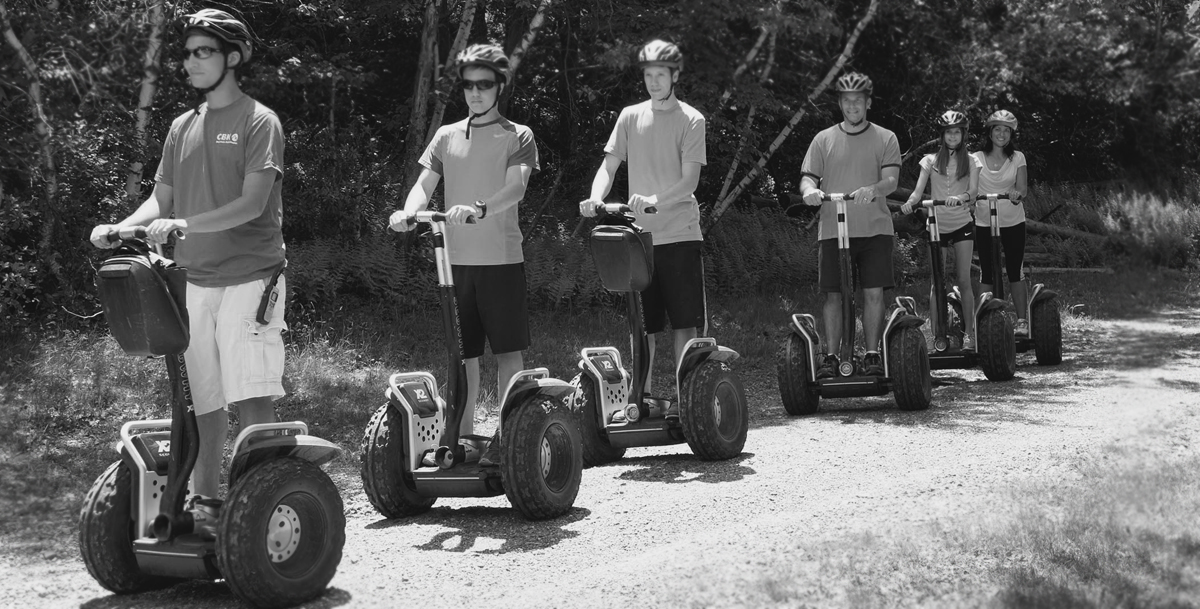
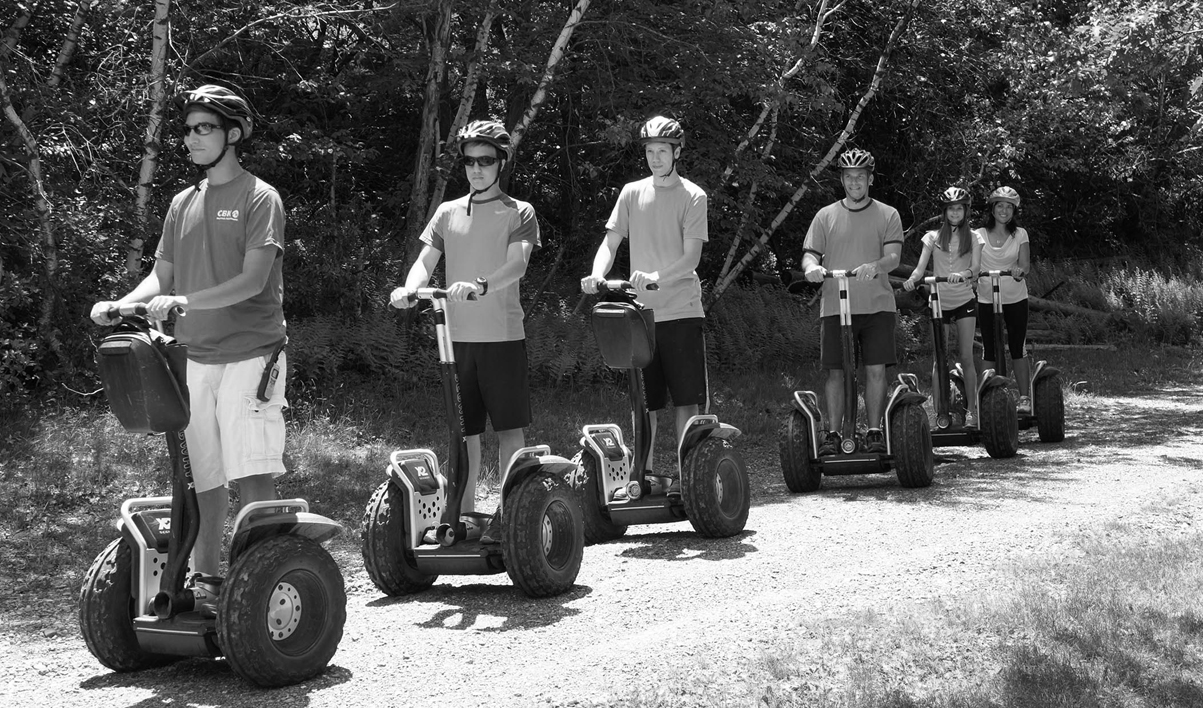
css added

diff --git a/app/assets/stylesheets/application.scss b/app/assets/stylesheets/application.scss
@@ -2,14 +2,30 @@
 
 //css here
 h1 {
+    font-size: 60px;
+    padding: 10px 10px 10px 30px;
     text-align: center;
+    color: white;
+    font-family: helvetica, sans-serif
+    
 }
 ul {
+    // display: inline;
+    font-family: helvetica, sans-serif;
     text-align: center;
+    color: orangered;
+    font-size: 40px;
 }
 p {
     text-align: center;
+    color: darkslategray;
+    text-shadow: white 2px 2px 2px;
+    font-style: bold;
+    font-family: helvetica, sans-serif;
+    font-size: 32px;
 }
 body {
-    background-image: url("https://www.spredfast.com/sites/default/files/images/blog/blog%20header.png");
+    background-image: url("segway.jpg");
 }
+
+
